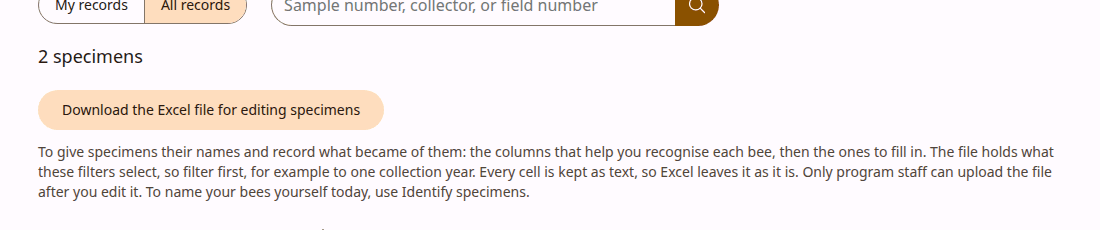
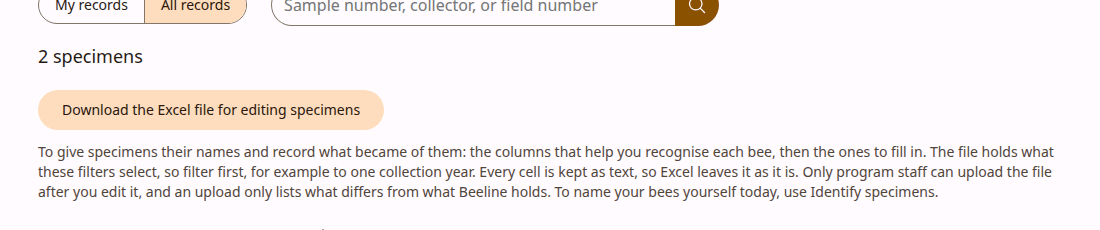
Read column widths from own properties; say an upload only lists differences (review fixes)

Changed region(s): [[0.1236, 0.7913, 0.8655, 0.8826]]

diff --git a/src/app/xlsx.ts b/src/app/xlsx.ts
@@ -244,6 +244,8 @@ export function xlsxWriter(opts: XlsxWriterOptions): XlsxWriter {
   const bold = new Set(opts.boldHeadings ?? []);
   for (const heading of Object.keys(opts.widths ?? {})) if (!header.includes(heading)) throw new Error(`a width for a column the sheet does not have: ${heading}`);
   for (const heading of [...shaded, ...bold]) if (!header.includes(heading)) throw new Error(`styling for a column the sheet does not have: ${heading}`);
+  // Own entries only: a heading such as "constructor" must not find a width on Object.prototype.
+  const widthOf = (heading: string) => (opts.widths !== undefined && Object.hasOwn(opts.widths, heading) ? opts.widths[heading]! : 16);
   // The style of each column's cells and of its heading.
   const bodyStyles = header.map((h) => (shaded.has(h) ? STYLE_GREY : STYLE_TEXT));
   const headStyles = header.map((h, at) => (bold.has(h) ? STYLE_BOLD : bodyStyles[at]!));
@@ -349,7 +351,7 @@ export function xlsxWriter(opts: XlsxWriterOptions): XlsxWriter {
         encoder.encode(
           `${XML_HEAD}<worksheet xmlns="${NS_MAIN}">` +
             `<cols>${header
-              .map((_, at) => `<col min="${at + 1}" max="${at + 1}" width="${opts.widths?.[header[at]!] ?? 16}" style="${bodyStyles[at]}" customWidth="1"/>`)
+              .map((_, at) => `<col min="${at + 1}" max="${at + 1}" width="${widthOf(header[at]!)}" style="${bodyStyles[at]}" customWidth="1"/>`)
               .join("")}</cols>` +
             `<sheetData>${row(header, headStyles)}`,
         ),

diff --git a/src/app/messages/en.ts b/src/app/messages/en.ts
@@ -912,7 +912,7 @@ export const en = {
       download: "Download as CSV",
       edit: "Download the Excel file for editing specimens",
       editNote:
-        "To give specimens their names and record what became of them: the columns that help you recognise each bee, then the ones to fill in. The file holds what these filters select, so filter first, for example to one collection year. Every cell is kept as text, so Excel leaves it as it is. Only program staff can upload the file after you edit it. To name your bees yourself today, use Identify specimens.",
+        "To give specimens their names and record what became of them: the columns that help you recognise each bee, then the ones to fill in. The file holds what these filters select, so filter first, for example to one collection year. Every cell is kept as text, so Excel leaves it as it is. Only program staff can upload the file after you edit it, and an upload only lists what differs from what Beeline holds. To name your bees yourself today, use Identify specimens.",
 
       note:
         "The CSV holds exactly what these filters select, coordinates and all, in Darwin Core columns, " +

diff --git a/test/xlsx.test.ts b/test/xlsx.test.ts
@@ -309,6 +309,8 @@ describe("sheets beside the main one, warnings, suggestions and shading (beeline
     expect(sheet).toMatch(/<col min="1" max="1" width="16"/);
     expect(sheet).toMatch(/<col min="2" max="2" width="56"/);
     expect(() => writeXlsx({ sheetName: "s", header: ["a"], widths: { z: 9 } }, [])).toThrow(/does not have: z/);
+    // A heading that is also a property of every object gets the default.
+    expect(decode(writeXlsx({ sheetName: "s", header: ["constructor", "b"], widths: { b: 56 } }, []), "xl/worksheets/sheet1.xml")).toMatch(/<col min="1" max="1" width="16"/);
   });
 
   it("shades the columns it is told to, bolds headings, and keeps the Text format on every cell", () => {
